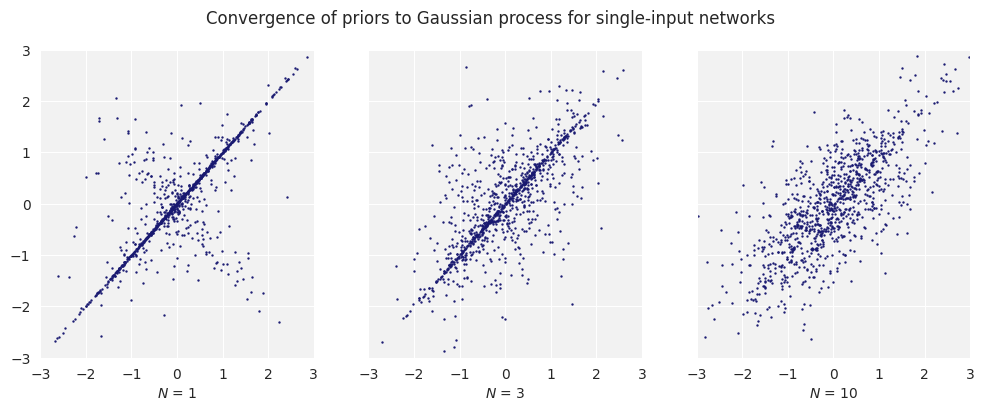
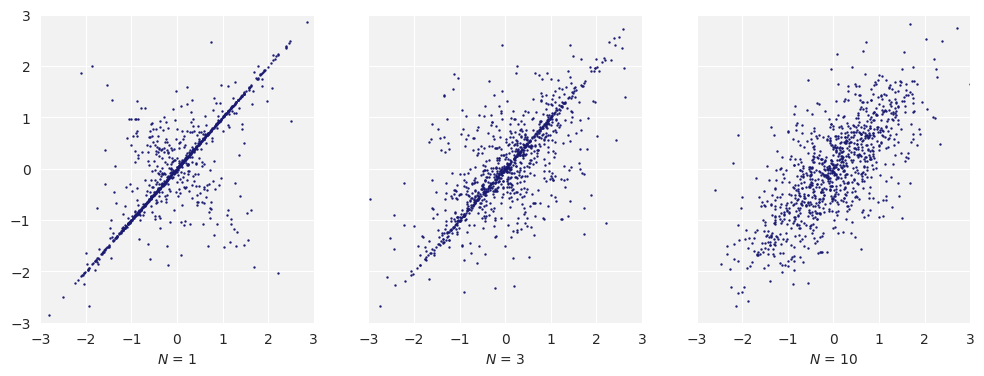
Site update

diff --git a/posts/nngp/index.html b/posts/nngp/index.html
@@ -125,7 +125,7 @@
 
       
       &nbsp; · &nbsp;
-      8 min read
+      10 min read
       
     </p>
 
@@ -140,11 +140,14 @@
   
 
   <div class="single-content">
-    <p>Despite their overwhelming success in modern machine learning, deep neural networks remain poorly understood from a theoretical perspective. Classical statistical wisdom dictates that overparameterized models (i.e., models with more degrees of freedom than data samples) should overfit noisy data and thus generalize poorly. Yet, even in cases in which deep neural networks fit noisy training data almost perfectly, they still exhibit good generalizability. This contradiction has highlighted a serious gap between the theory and practice of deep learning, motivating the need for a more complete theoretical framework for deep learning.</p>
-<p>An interesting result in the theoretical study of deep learning is the Neural Network Gaussian Process (NNGP), which shows the equivalence between neural networks and Gaussian processes (GPs). Indeed, \cite{neal1996priors} first showed that the distribution over functions represented by neural networks with a single hidden layer converges to a GP in the limit as the number of hidden units is taken to infinity<sup id="fnref:1"><a href="#fn:1" class="footnote-ref" role="doc-noteref">1</a></sup>. More recently, \cite{lee2018deep} extended this work to the case of arbitrary depth.</p>
-<p>In this blog, I briefly explain some of the background mathematics necessary in the development of the NNGP. Then, I show that an infinitely wide neural network of any depth is Gaussian process. Previous</p>
-<p>I aim to clarify mathematical arguments by detailing a thorough notation.</p>
-<h4 id="notation">Notation</h4>
+    <p>Despite their overwhelming success in modern machine learning, deep neural networks remain poorly understood from a theoretical perspective. Classical statistical wisdom dictates that overparameterized models (i.e., models with more degrees of freedom than data samples) should overfit noisy data and thus generalize poorly. Yet, even in cases in which deep neural networks fit noisy training data almost perfectly, they still exhibit good generalizability. This contradiction has highlighted a serious gap between the theory and practice of deep learning, motivating the need for a more complete theoretical framework.</p>
+<p>An interesting result in the theoretical study of deep learning is the Neural Network Gaussian Process (NNGP), which shows the equivalence between neural networks and Gaussian processes (GPs). Indeed, \cite{neal1996priors} first showed that the prior distribution of functions represented by neural networks with a single hidden layer converges to a GP in the limit as the number of hidden units is taken to infinity<sup id="fnref:1"><a href="#fn:1" class="footnote-ref" role="doc-noteref">1</a></sup>. More recently, \cite{lee2018deep} extended this work to the case of deep neural networks.</p>
+<p>In this blog post, I explain the NNGP, reviewing both the work of \cite{neal1996priors} and \cite{lee2018deep}. I aim to clarify the mathematical argumments which lead to their results in a detailed and step-by-step fashion. Then, I show some coding experiments which further support the results.</p>
+<h3 id="gaussian-processes">Gaussian Processes</h3>
+<p>Informally, a GP is defined as a collection of random variables such that any finite collection of which take a multivariate Normal distribution. GPs can be thought of as an infinite-dimensional generalization of the multivariate Normal distribution, i.e., it is a distribution over functions with a continuous domain.</p>
+<p>In machine learning, most supervised learning techniques take a parametric modeling approach, in which the task is to estimate the parameters of a function class given observations from the distribution<sup id="fnref:2"><a href="#fn:2" class="footnote-ref" role="doc-noteref">2</a></sup> . GPs, on the other hand, take a non-parametric Bayesian approach, in which minimal assumptions are made about the underlying distribution of data. This permits a more flexible approach for characterizing said distribution, whether it be by regression, clustering, or otherwise.</p>
+<p>For a more thorough explanation of GPs, I highly recommend <a href="https://distill.pub/2019/visual-exploration-gaussian-processes/">this blog post</a>.</p>
+<h3 id="notation">Notation</h3>
 <p>Consider an $L$-Layer neural network, with each layer $l$ consisting of $n_l$ hidden units. Let $\mathbf{x} = (x_1, \dots, x_{n_0})$ denote the input of the network. Then, the forward pass is defined by the following series of computations:</p>
 <p>$$
 \begin{align*}
@@ -164,12 +167,12 @@ $$</p>
 <p>Often, we write the $f_j(\mathbf{x}; \theta)$ as $f_j(\mathbf{x})$, where it is implied that the output function is parameterized by the vector $\theta$. Similarly, each hidden unit is itself a function of the input <strong>x</strong>, so we can write, e.g., $A_j^{(l)} = A_j^{(l)}(\mathbf{x})$. It is also sometimes convenient to talk about computations involving entire layers instead of individual hidden units. As such, it is common to remove the subscript and denote an entire layer by, e.g., $A^{(l)}$, whereas the corresponding hidden units are denoted $A_j^{(l)}$.</p>
 <p>For the sake of clarity, I will consider the case in which there is only one output unit. Thus, the function represented by the neural network can be written as $f(\mathbf{x})$, where I have removed the subscript $j$. The more general case is a fairly straightforward extension, in which each output unit $f_j(\mathbf{x})$ is itself a GP. The nuances arise in how the output unit is processed; e.g., a classification task in which the prediction is decided by taking the unit with the largest value, corresponding to a probability distribution under the softmax function.</p>
 <p>Finally, if a function $f(x)$ is a GP with mean function $m(x)$ and covariance function $k(x, x^{\prime})$, I will denote this by $f(x) \sim \mathcal{GP}(m, k)$.</p>
-<h4 id="single-layer-neural-networks-as-gaussian-processes">Single-Layer Neural Networks as Gaussian Processes</h4>
-<p>First, we assume the weight and bias parameters are drawn i.i.d. from a Normal distribution with $\mu_b = \mu_w = 0, \sigma_b^2 = 1$, and $\sigma_w^2 = 1/n_l$. Following the notation previously introduced, we begin with the computation of the pre-activation units in the first layer:</p>
+<h3 id="single-layer-neural-networks-as-gaussian-processes">Single-Layer Neural Networks as Gaussian Processes</h3>
+<p>First, we assume the weight and bias parameters are drawn i.i.d. from a Normal distribution with $\mu_b = \mu_w = 0, \sigma_b^2 = 1$, and $\sigma_w^2 = 1/n_l$<sup id="fnref:3"><a href="#fn:3" class="footnote-ref" role="doc-noteref">3</a></sup> . Following the notation previously introduced, we begin with the computation of the pre-activation units in the first layer:</p>
 <p>$$
 Z_j^{(1)} = b_j^{(0)} + \sum_{i=1}^{n_0}w_{ji}^{(0)}x_i.
 $$</p>
-<p>Since each $w_{ji}, b_j$ is i.i.d. Normal, then $Z_j^{(1)}$ is i.i.d. Normal<sup id="fnref:2"><a href="#fn:2" class="footnote-ref" role="doc-noteref">2</a></sup> with mean</p>
+<p>Since each $w_{ji}, b_j$ is i.i.d. Normal, then $Z_j^{(1)}$ is i.i.d. Normal<sup id="fnref:4"><a href="#fn:4" class="footnote-ref" role="doc-noteref">4</a></sup> with mean</p>
 <p>$$
 \begin{align*}
 \mathbb{E} \left[ Z_j^{(1)} \right] &amp;= \mathbb{E} \left[ b_j^{(0)} + \sum_{i=1}^{n_0} w_{ji}^{(0)} x_i \right] \\
@@ -196,7 +199,7 @@ $$</p>
 <p>$$
 f(\mathbf{x}) = b^{(1)} + \sum_{i=1}^{n_1} w_i^{(1)} \, A_i^{(1)},
 $$</p>
-<p>and since each $A_i^{(1)}$ is i.i.d., then it follows from the Central Limit Theorem (CLT) that $f(\mathbf{x})$ takes a Normal distribution in the limit as $n_1 \to \infty$. Thus, for any finite set of inputs <strong>x</strong>, $f(\mathbf{x})$ will follow a multivariate Normal distribution; this is precisely the definition of a Gaussian process. It follows that</p>
+<p>and since each $A_i^{(1)}$ is i.i.d., then it follows from the Central Limit Theorem (CLT) that $f(\mathbf{x})$ takes a Normal distribution in the limit as $n_1 \to \infty$. Thus, for any finite set of inputs <strong>x</strong>, $f(\mathbf{x})$ will follow a multivariate Normal distribution; this is precisely the definition of a Gaussian process! It follows that</p>
 <p>$$
 f(\mathbf{x}) \sim \mathcal{GP}(m, k),
 $$</p>
@@ -214,8 +217,8 @@ k(\mathbf{x}, \mathbf{x}^\prime) &amp;= \text{Cov}{\left( f(\mathbf{x}), f(\math
 \end{align*}
 $$</p>
 <p>where I have introduced the covariance function $C(\mathbf{x}, \mathbf{x}^\prime)$ as in \cite{neal1996priors}. This covariance function is often difficult to compute, and depends on the specified activation function. See <a href="#comments-on-the-covariance-function">Comments on the Covariance Function</a> for further discussion.</p>
-<h4 id="deep-neural-networks-as-gaussian-processes">Deep Neural Networks as Gaussian Processes</h4>
-<p>The case for neural networks with arbitrary depth can be extended via an argument of mathematical induction. First, the base case follows from the previous section. Then, we assume that $Z_j^{(l)} \sim \mathcal{GP}(0, k^{(l)})$<sup id="fnref:3"><a href="#fn:3" class="footnote-ref" role="doc-noteref">3</a></sup> , and that each $Z_j^{(l)}$ are i.i.d. Hence, each $A_j^{(l)}$ are i.i.d. as well. Then, we can compute</p>
+<h3 id="deep-neural-networks-as-gaussian-processes">Deep Neural Networks as Gaussian Processes</h3>
+<p>The case for neural networks with arbitrary depth can be extended via an argument of mathematical induction. First, the base case follows from the previous section. Then, we assume that $Z_j^{(l)} \sim \mathcal{GP}(0, k^{(l)})$<sup id="fnref:5"><a href="#fn:5" class="footnote-ref" role="doc-noteref">5</a></sup> , and that each $Z_j^{(l)}$ are i.i.d. Hence, each $A_j^{(l)}$ are i.i.d. as well. Then, we can compute</p>
 <p>$$
 Z_j^{(l+1)} = b_j^{l} + \sum_{i=1}^{n_l}w_{ji}^{(l)}A_j^{(l)}.
 $$</p>
@@ -232,7 +235,7 @@ k^{(l+1)}(\mathbf{x}, \mathbf{x}^\prime) &amp;= \mathbb{E} \left[ Z_j^{(l+1)} (\
 \end{align*}
 $$</p>
 <p>The covariance function of the corresponding GP at each layer is defined recursively, and I restrict discussion of the covariance function to the single-layer case. This is addressed in the following section.</p>
-<h4 id="comments-on-the-covariance-function">Comments on the Covariance Function</h4>
+<h3 id="comments-on-the-covariance-function">Comments on the Covariance Function</h3>
 <p>As was previously alluded to the computation of the covariance function is often difficult to evaluate, and depends on the specific architecture and choice of activation functions in the neural network. Computing the covariance function involves integrating over the distributions of the weights and biases for each pair of training samples. For many architectures, this requires sophisticated numerical integration techniques, and is often not practical from a computational perspective. Furthermore, this becomes increasingly challenging with larger datasets.</p>
 <p>However, in the case of a single hidden layer, certain choices of activation functions do yield analytic covariance functions. \cite{williams1996computing} gives such an example; the &ldquo;error function&rdquo;, defined by</p>
 <p>$$
@@ -243,14 +246,16 @@ $$</p>
 \mathbb{E} \left[ \text{erf } (\mathbf{x}) \, \text{erf } (\mathbf{x}^\prime) \right] = \frac{2}{\sqrt{\pi}} \sin^{-1} \left( \frac{2\mathbf{x}^\top \Sigma \mathbf{x}^\prime}{\sqrt{ \left( 1 + 2\mathbf{x}^\top \Sigma \mathbf{x} \right)  \left( 1 + 2 \mathbf{x}^{\prime\top}\Sigma \mathbf{x}^\prime \right) } } \right),
 $$</p>
 <p>where $\Sigma$ denotes the covariance matrix of the input-to-hidden layer weights (\cite{williams1996computing}). Note that this covariance function is not stationary, i.e., it is not translation invariant, which is often a nice property in kernel functions for GP regression.</p>
-<h4 id="experiments">Experiments</h4>
-<p>In this section, I produce some empirical results to help visualize and understand the NNGP.</p>
-<p>The following figure shows the distribution over network priors for an increasing number of hidden units (network priors being the function represented by the network at initialization, before training). It can be seen that as the size of the hidden layer increases, the distribution converges to a bivariate Normal distribution.</p>
+<h3 id="experiments">Experiments</h3>
+<p>Figure 1 shows the distribution over network priors for an increasing number of hidden units (network priors being the function represented by the network at initialization, before training). Each point represents a neural network prior (i.e., no training) with a single hidden layer, a single input, and a single output, with 1, 3, and 10 tanh hidden units, respectively from left to right. The parameters were drawn from a Normal distribution with $\sigma_b^{(0)} = \sigma_w^{(0)} =5$, $\sigma_b^{(1)} = 0.1$, and $\sigma_w^{(1)} = 1/\sqrt{N}$, where $N$ is the number of units in the hidden layer. The horizontal axis is the output of the network when the input is -0.2; the vertical axis is the output of the network when the input is 0.4.</p>
 <figure>
   <img src="figures/bivariate_distributions.png" alt="Bivariate Distributions" style="width:100%">
-  <figcaption>Figure 1: Convergence of priors to Gaussian processes for single-input networks</figcaption>
+  <figcaption>Figure 1: Convergence of priors to Gaussian processes for single-input networks. Results reproduced from \cite{neal1996priors}.</figcaption>
 </figure>
-<h4 id="references">References</h4>
+<p>Recalling the definition of a GP, if $f \sim \mathcal{GP}$, then $f(-0.2)$ and $f(0.4)$ take a joint bivariate Normal distribution. It can be seen that as the size of the hidden layer increases, the distribution of priors converges to a bivariate Normal distribution.</p>
+<p>All of the code used to make these plots can be found at <a href="https://github.com/wvirany/NNGP">github.com/wvirany/NNGP</a>.</p>
+<h3 id="conclusion">Conclusion</h3>
+<h3 id="references">References</h3>
 <ol>
 <li><a href="https://distill.pub/2019/visual-exploration-gaussian-processes/">Visual exploration of Gaussian Processes</a></li>
 <li><a href="https://lilianweng.github.io/posts/2022-09-08-ntk/">Some math behind the NTK</a></li>
@@ -259,13 +264,19 @@ $$</p>
 <hr>
 <ol>
 <li id="fn:1">
-<p>This could benefit from more explanation of what is meant by &ldquo;distribution of functions represented by NNs&hellip;&#160;<a href="#fnref:1" class="footnote-backref" role="doc-backlink">&#x21a9;&#xfe0e;</a></p>
+<p>Here, &ldquo;the prior distribution of functions represented by neural networks&rdquo; refers to the fact that a neural network represents a function, and at initialization, the parameters which characterize that function are each drawn from a distribution. Hence, the function itself is drawn from a joint distribution of all its parameters.&#160;<a href="#fnref:1" class="footnote-backref" role="doc-backlink">&#x21a9;&#xfe0e;</a></p>
 </li>
 <li id="fn:2">
-<p>This follows from the fact that the linear combination of i.i.d. Normal random variables is itself i.i.d. Normal.&#160;<a href="#fnref:2" class="footnote-backref" role="doc-backlink">&#x21a9;&#xfe0e;</a></p>
+<p>For example, this correspondings to solving the least squares regression problem, which gives the intercept and slope parameters of the line which best fits some set of observations.&#160;<a href="#fnref:2" class="footnote-backref" role="doc-backlink">&#x21a9;&#xfe0e;</a></p>
 </li>
 <li id="fn:3">
-<p>Note that the covariance function of the GP for the units in each layer depends on the activation functions in all the previous layers.&#160;<a href="#fnref:3" class="footnote-backref" role="doc-backlink">&#x21a9;&#xfe0e;</a></p>
+<p>As we will see later, it is necessary to define the variance of the weight parameters as $\sigma_w^2 = 1/n_l$ so that when we take the number of hidden units to infinity, the sum over all these units will converge.&#160;<a href="#fnref:3" class="footnote-backref" role="doc-backlink">&#x21a9;&#xfe0e;</a></p>
+</li>
+<li id="fn:4">
+<p>This follows from the fact that the affine transformation of i.i.d. Normal random variables is itself i.i.d. Normal.&#160;<a href="#fnref:4" class="footnote-backref" role="doc-backlink">&#x21a9;&#xfe0e;</a></p>
+</li>
+<li id="fn:5">
+<p>Note that the covariance function of the GP for the units in each layer depends on the activation functions in all the previous layers.&#160;<a href="#fnref:5" class="footnote-backref" role="doc-backlink">&#x21a9;&#xfe0e;</a></p>
 </li>
 </ol>
 </div>
